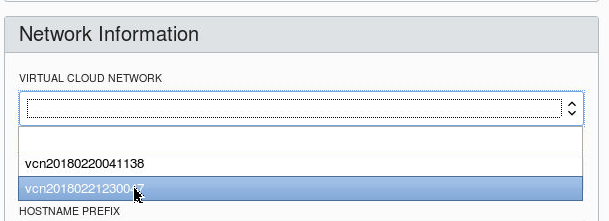
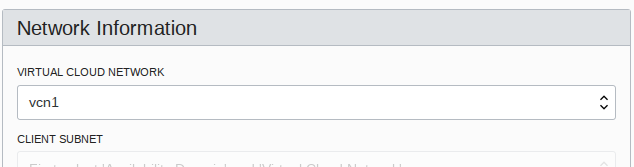
Lab 100 updates

diff --git a/workshops/dbcs-dba/IL-100.md b/workshops/dbcs-dba/IL-100.md
@@ -131,7 +131,13 @@ Note that if you performed the setup steps for this and the following labs some 
 
 	![](images/IL-100/017.png)
 
-### **STEP 5**:  Create a Database Cloud Service
+### **STEP 5**:  Create a Database Cloud Service **Note will will not actually create a DBCS instance, but will just go through the steps and then cancel.**
+
+-	Select Database (OCI) (if you are not already in the Database Console), and then open Console.
+
+	![](images/IL-100/018.png)
+
+	![](images/IL-100/018.1.png)
 
 -	Select Database - DB Systems.
 
@@ -163,7 +169,7 @@ Note that if you performed the setup steps for this and the following labs some 
 
 	![](images/IL-100/024.png)
 
--	Select the VCN you just created.  The other VCN that was created for WorkshopImage during setup will also work.
+-	Select vcn1. 
 
 	![](images/IL-100/025.png)
 
@@ -180,7 +186,7 @@ Note that if you performed the setup steps for this and the following labs some 
 
 	![](images/IL-100/027.png)
 
--	Launch DB System.  Note this will take approximately 70 minutes to create.
+-	Cancel at this point.  We will use the pre-created Alpha01A-DBCS instance, since this step takes approximately 70 minutes to complete.
 
 	![](images/IL-100/028.png)
 
@@ -215,6 +221,7 @@ Note that if you performed the setup steps for this and the following labs some 
 	- `env | grep ORA`
 	- `cd $ORACLE_HOME`
 	- `ls`
+	- `exit`
 	- `exit`
 
 	![](images/IL-100/033.png)
